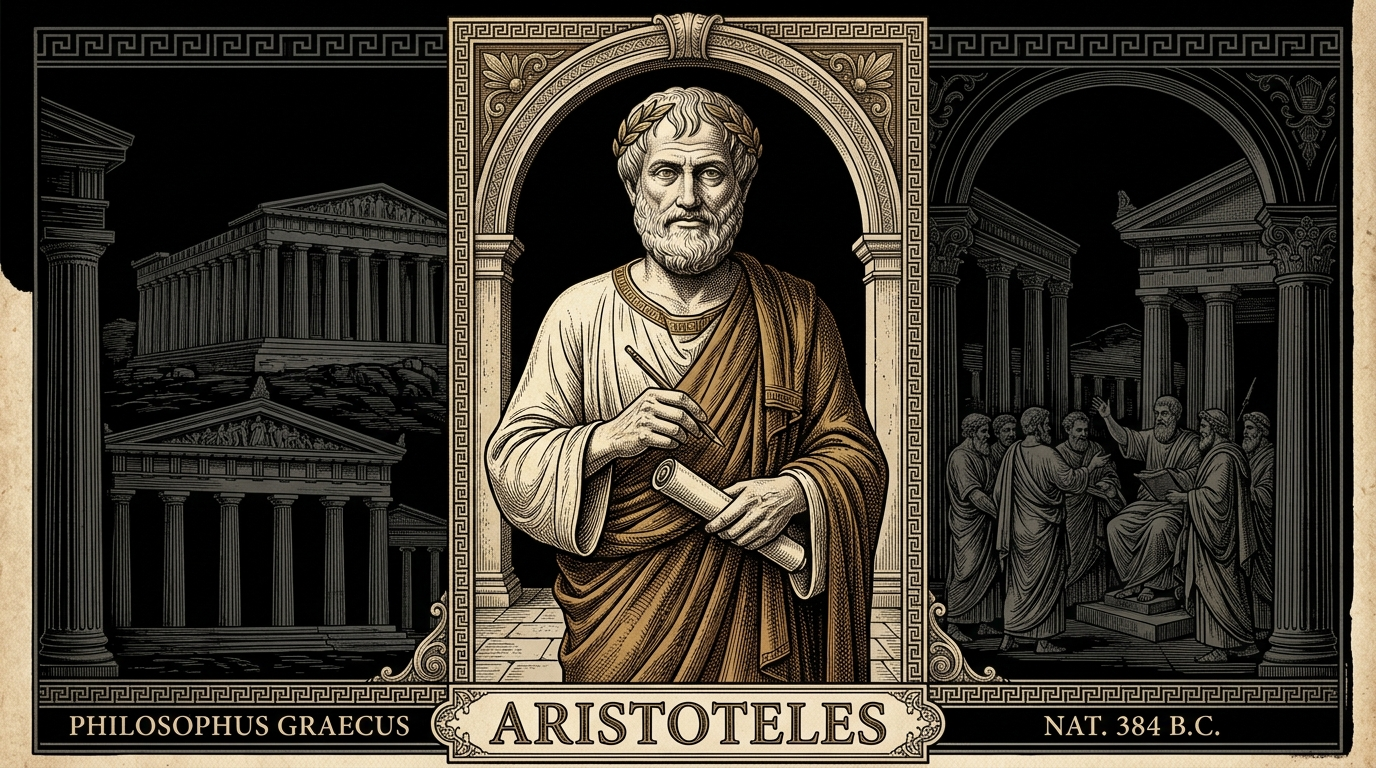
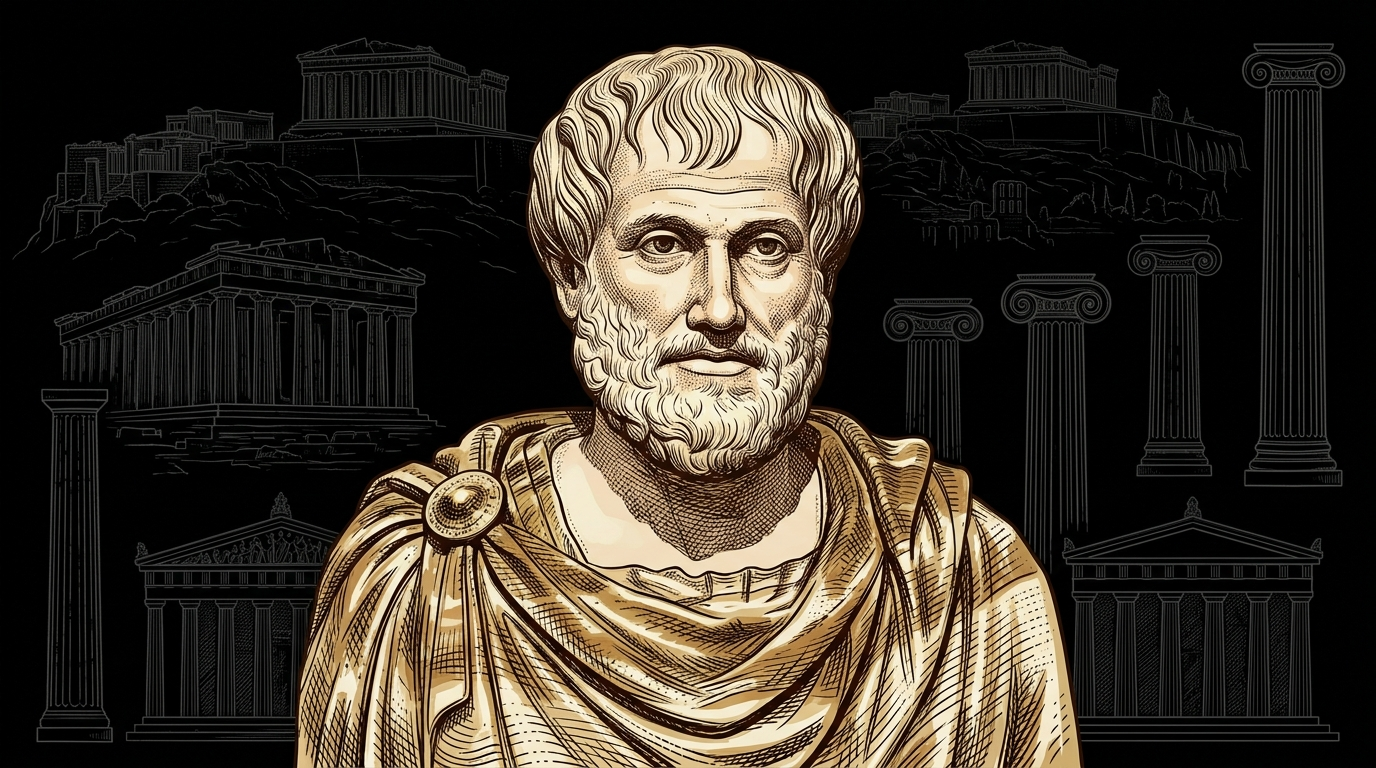
feat(biografias): add Machiavelli biography and regenerate all covers without text

diff --git a/src/data/biografias/maquiavel.ts b/src/data/biografias/maquiavel.ts
@@ -1,0 +1,123 @@
+import { BiografiaData } from '@/types/biografia';
+
+export const maquiavelData: BiografiaData = {
+  id: 'maquiavel',
+  categoriaId: 'filosofos',
+  nome: 'Nicolau Maquiavel',
+  subtitulo: 'O fundador da ciência política moderna e o arquiteto da Razão de Estado.',
+  imagemUrl: '/biografias/maquiavel-capa.jpg',
+  epoca: 'Renascimento',
+  ordemEpoca: 4,
+  tabs: [
+    {
+      id: 'historia',
+      label: 'História',
+      conteudo_md: `
+## A Florença Renascentista e o Surgimento do Diplomata
+
+Nicolau Maquiavel (Niccolò Machiavelli) nasceu em 1469 na fervilhante Florença, berço do Renascimento italiano, um mosaico de cidades-estado em constante guerra, intriga e competição pelo poder, muitas vezes manipuladas por potências estrangeiras e pelo Papado. Nascido em uma família empobrecida, mas de sólida linhagem, ele não herdou riquezas, mas sim uma excelente educação humanista centrada no estudo dos grandes clássicos de Roma e da Grécia Antiga.
+
+Aos 29 anos, após a queda do frade radical Savonarola (que havia instaurado uma breve e puritana república), Maquiavel ascendeu como Secretário da Segunda Chancelaria da nova República Florentina. Sua função era diplomática e militar: ele viajou incansavelmente pela Europa como embaixador, negociando com os homens mais perigosos de seu tempo. Ele estudou de perto o gênio e a brutalidade de César Bórgia (filho do Papa Alexandre VI), o absolutismo pragmático do Rei Luís XII da França e o temperamento guerreiro do Papa Júlio II.
+
+Observando esses governantes de perto, Maquiavel percebeu que as regras ensinadas nos espelhos de príncipes cristãos — que um líder deveria ser sempre dócil, piedoso e honesto — eram uma receita infalível para o fracasso e a ruína do Estado em um mundo cruel.
+
+## O Exílio e a Obra-Prima
+
+Em 1512, com o apoio de tropas espanholas e do Papa, a poderosa família dos Médici (banqueiros e mecenas que haviam sido expulsos no passado) retornou para reconquistar Florença e esmagou a República. Maquiavel, por ser um alto funcionário republicano, foi imediatamente destituído de seu cargo. Pouco tempo depois, foi acusado injustamente de conspirar contra os Médici, sendo preso e barbaramente torturado no método da corda (estrapada).
+
+Sem confessar o crime que não cometeu, foi solto, mas banido da vida pública que tanto amava. Exilado em sua pequena fazenda rural em San Casciano, passava os dias cortando lenha e jogando cartas em tavernas. À noite, contudo, despia-se de suas roupas sujas, vestia seus mantos oficiais e se "encontrava" com os antigos reis e imperadores através da leitura de seus livros. 
+
+Foi nesse doloroso isolamento, na esperança de recuperar um cargo e o perdão da família Médici, que ele escreveu, em poucas semanas, o opúsculo que mudaria o mundo para sempre: **"O Príncipe"** (1513), dedicado a Lorenzo de Médici.
+
+## A Morte e a Imortalidade do "Maquiavélico"
+
+Ironicamente, "O Príncipe" não rendeu a Maquiavel o emprego desejado em vida. Ele morreu em 1527, aos 58 anos, semanas depois que os Médici foram novamente expulsos de Florença. Quando a República retornou, os novos republicanos não quiseram empregar o homem que tentara aconselhar os tiranos Médici.
+
+Apenas alguns anos após a sua morte, sua obra foi publicada e rapidamente censurada no *Index Librorum Prohibitorum* pela Igreja Católica. "O Príncipe" chocou a Europa ao separar, pela primeira vez na história, a Moral (religiosa e privada) da Política (pública e prática). Seu nome originou o adjetivo "maquiavélico", pejorativamente associado à perfídia e à frieza. No entanto, Maquiavel não pregava a maldade gratuita, mas sim que o governante deve estar disposto a perder a própria alma para salvar o seu Estado. Ele não descreveu os homens como *deveriam ser*, mas sim como *eles realmente são*.
+      `
+    },
+    {
+      id: 'obras',
+      label: 'Principais Obras',
+      conteudo_md: `
+> "É muito mais seguro ser temido do que amado, quando se tem de abrir mão de uma das duas opções."
+
+Maquiavel produziu uma bibliografia densa que abrange teoria política, estratégia militar, história e até mesmo comédia e literatura. Seus principais trabalhos, escritos majoritariamente durante o seu amargo exílio, contrastam e se complementam, mostrando um homem de intelecto ágil e pragmático:
+
+* **O Príncipe (1513):** O mais famoso tratado político de todos os tempos. Escrito como um manual prático de sobrevivência para um governante (príncipe), o livro rompe violentamente com o moralismo medieval. Maquiavel ensina que o Estado é mantido através da força e da astúcia. A verdadeira virtude política (*Virtù*) não é a bondade cristã, mas a capacidade brutal de se adaptar às circunstâncias (*Fortuna*). É na obra que ele consolida a ideia de que "os fins justificam os meios" (embora ele nunca tenha escrito a frase com essas exatas palavras), orientando que a crueldade, quando necessária, deve ser aplicada rapidamente e de uma só vez para manter o poder e a ordem.
+* **Comentários sobre a Primeira Década de Tito Lívio (Discorsi):** Enquanto "O Príncipe" lida com lideranças autocráticas em tempos de crise, os *Discursos* representam o verdadeiro coração ideológico de Maquiavel: o Republicanismo. Analisando a história do Império Romano, ele defende que repúblicas populares são formas de governo muito mais estáveis e eficientes a longo prazo do que as monarquias, pois acomodam melhor os conflitos naturais entre a elite e o povo. Ele defende a ideia do Estado de Direito e dos exércitos cidadãos em vez de mercenários.
+* **A Arte da Guerra (1521):** O único trabalho de teoria militar e política que Maquiavel viu ser impresso durante a sua vida. Nele, Maquiavel detalha a necessidade de exércitos permanentes (milícias compostas pelos próprios cidadãos armados) em contraste às perigosas e desleais tropas mercenárias. Ele entende a guerra não como um acidente, mas como a extensão máxima da política e da soberania estatal.
+* **A Mandrágora (1518):** Surpreendentemente, Maquiavel foi também um aclamado dramaturgo. Esta peça de comédia é considerada uma das obras primas do teatro renascentista. Cheia de cinismo, corrupção e sagacidade, a peça funciona como uma alegoria hilária, mas sombria, sobre a própria natureza corrompida do ser humano, mostrando que na vida civil, assim como na política de Florença, a fraude e a astúcia frequentemente derrotam a ingenuidade.
+      `
+    },
+    {
+      id: 'tabela',
+      label: 'Realismo vs Idealismo',
+      tabela: {
+        oponenteNome: 'Política Idealista / Escolástica',
+        items: [
+          {
+            topico: 'O Propósito da Política',
+            personagem: 'A manutenção do Estado, do poder e a ordem social. O Estado é um fim em si mesmo.',
+            oponente: 'Conduzir a alma humana à salvação, à virtude cristã e refletir o Reino dos Céus na terra.'
+          },
+          {
+            topico: 'A Natureza Humana',
+            personagem: 'Essencialmente ingrata, volúvel, simuladora, covarde ante os perigos e ávida de lucro. O governante deve prever a traição.',
+            oponente: 'Racional e capaz de aperfeiçoamento moral através da educação e da religião (mesmo com o pecado original).'
+          },
+          {
+            topico: 'A Virtude (Virtù)',
+            personagem: 'A energia viril, a força, a flexibilidade moral e a audácia de agir contra a ética para garantir o sucesso.',
+            oponente: 'As virtudes cardeais: Prudência, Justiça, Fortaleza e Temperança (sempre subordinadas às virtudes cristãs da Fé, Esperança e Caridade).'
+          },
+          {
+            topico: 'Ética Pública vs Privada',
+            personagem: 'A ética do Príncipe não é a ética do homem comum. Se um rei usar a bondade cega, ele destruirá seu país.',
+            oponente: 'Não há diferença. O que é pecado para um camponês também é pecado para um Rei.'
+          }
+        ]
+      }
+    },
+    {
+      id: 'legado',
+      label: 'Legado na Ciência Política',
+      conteudo_md: `
+## O Divórcio entre Ética e Política
+O legado mais duradouro de Maquiavel foi a fundação da **Ciência Política Moderna**. Até o Renascimento, a política era vista como um subcapítulo da moral, da religião e da filosofia (desde Aristóteles até Santo Tomás de Aquino). Maquiavel inaugurou a perspectiva empírica: para ele, a política tem regras próprias, totalmente independentes das normas de santidade ou justiça moral. Essa visão de *Realpolitik* tornou-se o mapa de navegação das Relações Internacionais até os dias atuais.
+
+### O Arquétipo do Líder Pragmatico
+Maquiavel introduziu a dicotomia do **Leão e da Raposa**. Um príncipe deve ser "leão para afugentar os lobos e raposa para conhecer os laços". O governante precisa aliar a força letal e intimidadora ao calculismo de não cair em armadilhas e quebrar suas próprias promessas quando cumpri-las se tornar uma desvantagem ao Estado. Esse pragmatismo descarnado serviu de base silenciosa para a ação de inúmeros estadistas seculares, de Napoleão a Otto von Bismarck.
+      `
+    },
+    {
+      id: 'direito',
+      label: 'Direito',
+      conteudo_md: `
+## A "Razão de Estado" e o Direito Público Moderno
+
+Embora Maquiavel seja o terror dos defensores dos direitos humanos naturais (Jusnaturalismo), sua obra possui um impacto nuclear no desenvolvimento do Direito Público, do Direito Administrativo e do Constitucionalismo Moderno. Ele foi um dos primeiros teóricos a visualizar o **Estado (Lo Stato)** como um ente artificial secular, distinto da figura física do monarca e que necessita sobreviver a qualquer custo.
+
+### A Supremacia e Soberania do Estado
+A premissa maquiavélica de que a sobrevivência da nação justifica o abandono das regras normais é a raiz histórica do conceito de **Razão de Estado (Raison d'État)**. Isso evoluiu no direito contemporâneo para os mecanismos jurídicos de exceção. Quando o Direito Constitucional atual prevê "Estado de Sítio", "Estado de Defesa", Suspensão de Garantias e Medidas Provisórias em tempos de grave crise bélica ou sanitária, trata-se de um reconhecimento fundamentalmente maquiavélico: de que a Lei normal não funciona em momentos nos quais a própria existência do Estado está ameaçada por inimigos internos ou externos.
+
+### Leis, Força e Liberdade Republicana
+Apesar da fama de "O Príncipe", nos seus *Discorsi*, Maquiavel estabelece fundamentos jurídicos do Republicanismo que seriam usados pelos Pais Fundadores americanos séculos depois. Ele argumentou que **"Boas leis precisam de boas armas"** — ou seja, uma legislação perfeita sem o monopólio da força estatal para executá-la é apenas papel morto.
+
+Além disso, ele chocou pensadores da época ao argumentar que os conflitos sociais (como a luta de classes entre patrícios e plebeus na Roma Antiga) não são doenças no corpo social, mas sim a *garantia da liberdade*, desde que institucionalizados pelas leis. O conflito forçava o Estado a criar novos direitos jurídicos, como o cargo do Tribuno da Plebe. Assim, para Maquiavel, o Direito não vem da paz celestial, mas sim de canalizar o conflito humano na criação de um ordenamento jurídico dinâmico.
+      `
+    },
+    {
+      id: 'linha_do_tempo',
+      label: 'Timeline',
+      timeline: [
+        { ano: '1469', evento: 'Nascimento', detalhe: 'Nasce em Florença durante o auge do domínio de Lorenzo de Médici, o Magnífico.' },
+        { ano: '1498', evento: 'Entrada na Diplomacia', detalhe: 'Com 29 anos, torna-se Segundo Secretário da Chancelaria da República Florentina após a execução de Savonarola.' },
+        { ano: '1502 - 1503', evento: 'Encontros com César Bórgia', detalhe: 'Atua como emissário junto ao brutal filho do Papa, César Bórgia, cuja astúcia implacável servirá de inspiração máxima para "O Príncipe".' },
+        { ano: '1512', evento: 'A Queda', detalhe: 'As tropas espanholas devolvem o poder aos Médici. A República Florentina cai e Maquiavel perde o seu cargo.' },
+        { ano: '1513', evento: 'Prisão, Tortura e O Príncipe', detalhe: 'Suspeito de conspirar contra os Médici, é torturado e exilado na zona rural, onde, na miséria, escreve sua obra-prima "O Príncipe".' },
+        { ano: '1527', evento: 'Morte de um Republicano', detalhe: 'Morre doente em Florença, semanas após o povo expulsar os Médici novamente e restaurar a República que ironicamente se negou a readmiti-lo.' }
+      ]
+    }
+  ]
+};

diff --git a/src/data/biografias/index.ts b/src/data/biografias/index.ts
@@ -2,10 +2,16 @@ import { BiografiaData } from '@/types/biografia';
 import { socratesData } from './socrates';
 import { hansKelsenData } from './hansKelsen';
 import { plataoData } from './platao';
+import { aristotelesData } from './aristoteles';
+import { kantData } from './kant';
+import { maquiavelData } from './maquiavel';
 
 export const todasBiografias: BiografiaData[] = [
   socratesData,
   plataoData,
+  aristotelesData,
+  maquiavelData,
+  kantData,
   hansKelsenData,
 ];
 
